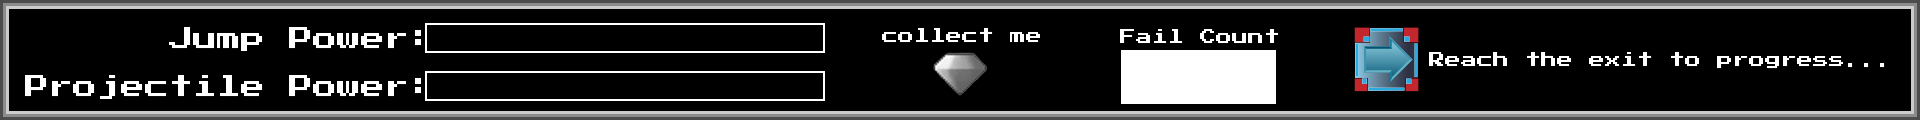
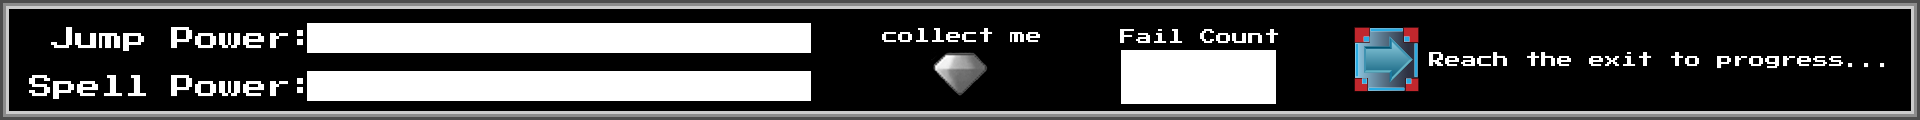
jump slider working

Changed region(s): [[0.0, 0.575, 0.4375, 0.85], [0.0312, 0.175, 0.4375, 0.45], [0.0625, 0.225, 0.0938, 0.25]]

diff --git a/mage_madness/hud.cpp b/mage_madness/hud.cpp
@@ -20,10 +20,20 @@ HUD::HUD() : Entity() {
 	_failText.setCharacterSize(30);
 	_failText.setString(_failCountAsText);
 	_failText.setPosition({ 1190 - (_failText.getLocalBounds().width * .5f), 1020 });
+
+	_jumpRect.setPosition({ 309, 985 });
+	_jumpRect.setSize({ 0,26 });
+	_jumpRect.setFillColor(sf::Color::Cyan);
+
+	_spellRect.setPosition({ 309, 1033 });
+	_spellRect.setSize({ 0,26 });
+	_spellRect.setFillColor(sf::Color::Magenta);
 }
 
 void HUD::Update(const float& dt) {
 
+	_spellRect.setSize({ 0,26 });
+	_jumpRect.setSize({ _jumpBarX,26 });
 
 	Entity::Update(dt);
 }
@@ -39,8 +49,23 @@ void HUD::CollectableGained() {
 	setTexture(hudOverTex);
 }
 
+void HUD::JumpX(float val) {
+	
+	if (val > 0) {
+		_jumpBarX = val / 2;
+	}
+	else { _jumpBarX = 0; }
+	
+}
+
+void HUD::SpellX() {
+
+}
+
 void HUD::Render(sf::RenderWindow& window) {
 
+	window.draw(_jumpRect);
+	window.draw(_spellRect);
 	window.draw(_failText);
 	Renderer::queue(this);
 }

diff --git a/mage_madness/hud.h b/mage_madness/hud.h
@@ -6,9 +6,13 @@ class HUD : public Entity {
 protected:
 
     int _failCount;
+    float _jumpBarX;
+    float _spellBarX;
     bool _gotCollectable;
     sf::Text _failText;
     std::string _failCountAsText;
+    sf::RectangleShape _jumpRect;
+    sf::RectangleShape _spellRect;
 
 public:
     //Constructor
@@ -22,5 +26,7 @@ public:
     // methods misc.
     void AddFail();
     void CollectableGained();
+    void JumpX(float val);
+    void SpellX();
 
 };

diff --git a/mage_madness/main.cpp b/mage_madness/main.cpp
@@ -959,6 +959,9 @@ void Update(RenderWindow& window) {
 		menuButtonManager.update(dt);
 	}
 
+	// send info to hud
+	hud->JumpX(player->getJcharge());
+
 	// check walls for collision ===========================================================================================================================
 	for (auto s = begin(tiles); s != end(tiles); ++s) {
 

diff --git a/mage_madness/player.cpp b/mage_madness/player.cpp
@@ -120,6 +120,10 @@ void Player::jumpReleased() {
     }
 }
 
+float Player::getJcharge() {
+    return _jChargeTime;
+}
+
 void Player::resetJump() {
 
     _isAirborn = false;

diff --git a/mage_madness/player.h b/mage_madness/player.h
@@ -42,4 +42,5 @@ public:
 
     float getVelX();
     float getVelY();
+    float getJcharge();
 };
